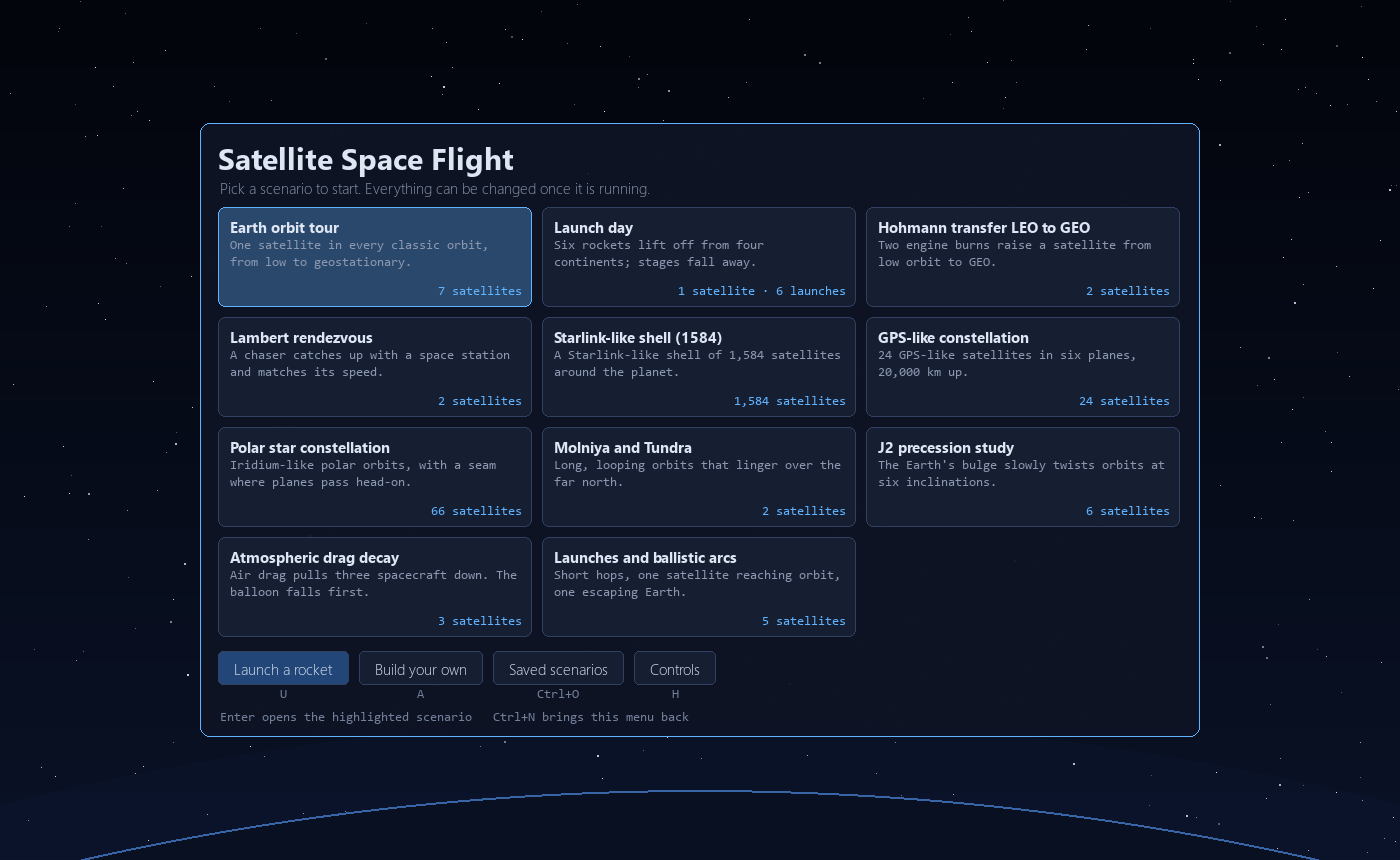
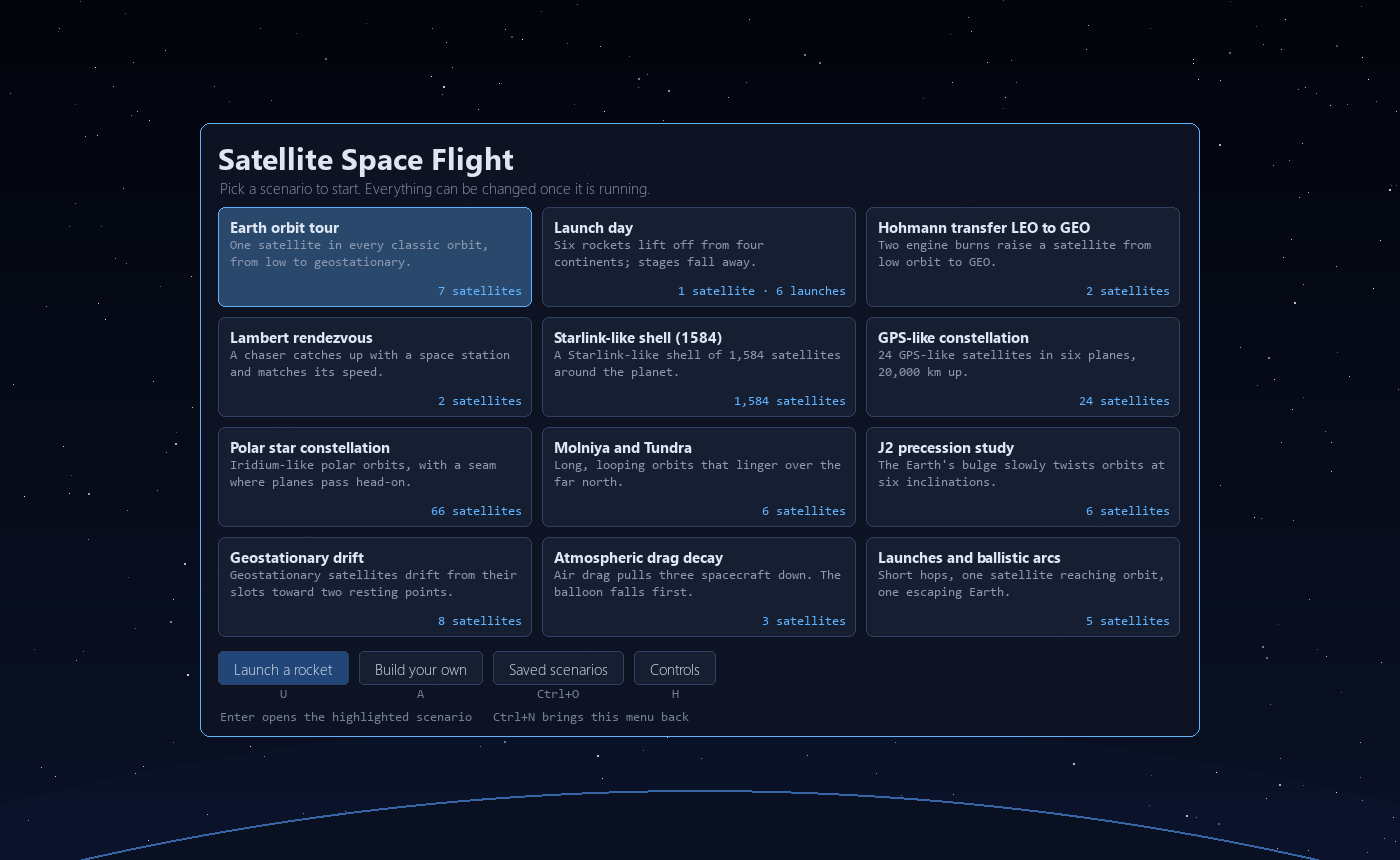
Add the C22/S22 gravity term and a geostationary drift scenario
The Earth's equator is slightly elliptical. The sectoral C22/S22 term
(EGM-96) is a new force switch, off by default, in the Physics dialog
and scenario files ("c22"). It turns with the Earth, so accelerations take
GMST and the energy readouts become the Jacobi integral E - omega h_z
(conserved to 1e-11 over a day in the tests). Tests also check the
acceleration against the potential's numerical gradient.

Its visible effect: unattended geostationary satellites accelerate in
longitude toward 75 E or 105 W, 3.06 deg in 60 days from 45 deg away.
New scenario geo_drift.json shows eight of them at a day per second
(10-minute steps). It is Earth gravity, so it is in scope; SCOPE.md and
the scope test list it.

Also: the start menu counted a satellite spec with copies as one
satellite (the Molniya card said 2 for 6).

diff --git a/satflight/forces.py b/satflight/forces.py
@@ -22,7 +22,7 @@ from dataclasses import asdict, dataclass, fields
 import numpy as np
 
 from . import atmosphere
-from .constants import F_EARTH, J2, J3, J4, MU_EARTH, R_EARTH
+from .constants import C22, F_EARTH, J2, J3, J4, MU_EARTH, OMEGA_EARTH, R_EARTH, S22
 from .frames import OMEGA_VEC
 
 # --- Individual terms --------------------------------------------------------------
@@ -64,6 +64,42 @@ def accel_j4(r, mu: float = MU_EARTH, re: float = R_EARTH, j4: float = J4):
     txy = 1.0 - 14.0 * s + 21.0 * s * s
     tz = 5.0 - 70.0 / 3.0 * s + 21.0 * s * s
     return np.stack([k * x * txy, k * y * txy, k * z * tz], axis=-1)
+
+
+def _to_ecef_xy(r, theta):
+    """ECEF x, y (and z) of ECI positions ``r`` with the Earth turned by ``theta``
+    (a scalar, or one angle per row)."""
+    c, s = np.cos(theta), np.sin(theta)
+    x, y, z = r[..., 0], r[..., 1], r[..., 2]
+    return c * x + s * y, -s * x + c * y, z, c, s
+
+
+def accel_c22(r, theta, mu: float = MU_EARTH, re: float = R_EARTH, c22: float = C22,
+              s22: float = S22):
+    """Sectoral C22/S22 term (the equator is slightly elliptical) at ECI ``r``
+    when the Earth has turned by GMST ``theta``: the gradient of
+
+        U22 = 3 mu Re^2 (C22 (x^2 - y^2) + 2 S22 x y) / r^5   (x, y Earth-fixed).
+
+    It fixes the Earth's field to the rotating Earth, so it depends on time.
+    Geostationary satellites drift toward 75 E or 105 W under it."""
+    x, y, z, c, s = _to_ecef_xy(r, theta)
+    r2 = x * x + y * y + z * z
+    k = 3.0 * mu * re * re / (r2 * r2 * np.sqrt(r2))
+    w = c22 * (x * x - y * y) + 2.0 * s22 * x * y
+    q = 5.0 * w / r2
+    gx = k * (2.0 * (c22 * x + s22 * y) - q * x)
+    gy = k * (2.0 * (s22 * x - c22 * y) - q * y)
+    gz = -k * q * z
+    return np.stack([c * gx - s * gy, s * gx + c * gy, gz], axis=-1)
+
+
+def c22_potential(r, theta, mu: float = MU_EARTH, re: float = R_EARTH):
+    """U22 of :func:`accel_c22` (km^2/s^2, the acceleration is its gradient)."""
+    x, y, z, _, _ = _to_ecef_xy(r, theta)
+    r2 = x * x + y * y + z * z
+    w = C22 * (x * x - y * y) + 2.0 * S22 * x * y
+    return 3.0 * mu * re * re * w / (r2 * r2 * np.sqrt(r2))
 
 
 def zonal_potential(r, j2=True, j3=False, j4=False, mu: float = MU_EARTH,
@@ -109,10 +145,11 @@ class ForceModel:
     j2: bool = True
     j3: bool = False
     j4: bool = False
+    c22: bool = False
     drag: bool = False
     density_scale: float = 1.0
 
-    TERMS = ("j2", "j3", "j4", "drag")
+    TERMS = ("j2", "j3", "j4", "c22", "drag")
     OUT_OF_SCOPE = {"sun": "Sun third-body gravity", "moon": "Moon third-body gravity",
                     "srp": "solar radiation pressure"}
 
@@ -136,8 +173,9 @@ class ForceModel:
         on = [t.upper() for t in self.TERMS if getattr(self, t)]
         return "two-body" if not on else "2B+" + "+".join(on)
 
-    def acceleration(self, r, v, cd_a_over_m):
-        """Total acceleration (km/s^2) of the enabled terms for ``(N, 3)`` states."""
+    def acceleration(self, r, v, cd_a_over_m, gmst: float = 0.0):
+        """Total acceleration (km/s^2) of the enabled terms for ``(N, 3)`` states;
+        ``gmst`` (rad) places the Earth-fixed C22/S22 term."""
         a = accel_point_mass(r)
         if self.j2:
             a += accel_j2(r)
@@ -145,11 +183,13 @@ class ForceModel:
             a += accel_j3(r)
         if self.j4:
             a += accel_j4(r)
+        if self.c22:
+            a += accel_c22(r, gmst)
         if self.drag:
             a += accel_drag(r, v, cd_a_over_m, self.density_scale)
         return a
 
-    def breakdown(self, r, v, cd_a_over_m):
+    def breakdown(self, r, v, cd_a_over_m, gmst: float = 0.0):
         """Magnitude (km/s^2) of every term for display, enabled or not."""
         r = np.atleast_2d(r)
         v = np.atleast_2d(v)
@@ -158,14 +198,23 @@ class ForceModel:
             "J2": accel_j2(r),
             "J3": accel_j3(r),
             "J4": accel_j4(r),
+            "C22": accel_c22(r, gmst),
             "drag": accel_drag(r, v, np.atleast_1d(cd_a_over_m), self.density_scale),
         }
-        enabled = {"gravity": True, "J2": self.j2, "J3": self.j3, "J4": self.j4, "drag": self.drag}
+        enabled = {"gravity": True, "J2": self.j2, "J3": self.j3, "J4": self.j4, "C22": self.c22,
+                   "drag": self.drag}
         return {k: (float(np.linalg.norm(val[0])), enabled[k]) for k, val in terms.items()}
 
 
-def conservative_energy(r, v, model: ForceModel):
-    """Specific energy including the enabled zonal terms; conserved exactly
-    when only point mass + zonals act (the field is axisymmetric)."""
+def conservative_energy(r, v, model: ForceModel, gmst=0.0):
+    """The quantity the enabled gravity terms conserve. With zonals only (an
+    axisymmetric field) that is the specific energy. The C22/S22 term turns
+    with the Earth, so energy is no longer conserved; the Jacobi integral
+    E - omega h_z (energy seen from the rotating Earth) is, and is returned
+    instead. ``gmst`` (rad, scalar or one per row) places the C22 term."""
     vm2 = np.sum(v * v, axis=-1)
-    return 0.5 * vm2 - zonal_potential(r, model.j2, model.j3, model.j4)
+    e = 0.5 * vm2 - zonal_potential(r, model.j2, model.j3, model.j4)
+    if model.c22:
+        e = e - c22_potential(r, gmst)
+        e = e - OMEGA_EARTH * (r[..., 0] * v[..., 1] - r[..., 1] * v[..., 0])
+    return e

diff --git a/tests/test_forces_integrators.py b/tests/test_forces_integrators.py
@@ -7,15 +7,17 @@ import numpy as np
 import pytest
 
 from satflight import integrators
-from satflight.constants import MU_EARTH
+from satflight.constants import MU_EARTH, OMEGA_EARTH
 from satflight.elements import coe2rv, kepler_propagate
 from satflight.forces import (
     ForceModel,
+    accel_c22,
     accel_drag,
     accel_j2,
     accel_j3,
     accel_j4,
     accel_point_mass,
+    c22_potential,
     conservative_energy,
     zonal_potential,
 )
@@ -134,3 +136,29 @@ def test_callback_can_stop_integration():
     prop = Propagator("dopri5", h_max=10.0)
     t, _ = prop.integrate(_two_body, 0.0, y0, 1000.0, lambda t, y: t >= 50.0)
     assert 50.0 <= t < 100.0
+
+
+@pytest.mark.parametrize("theta", [0.0, 1.1, 4.0])
+def test_c22_acceleration_is_the_potential_gradient(theta):
+    for r in (np.array([7000.0, 1200.0, -900.0]), np.array([-30000.0, 28000.0, 4000.0])):
+        num = _num_grad(lambda x: c22_potential(x, theta), r, 0.5)
+        assert np.allclose(accel_c22(r, theta), num, rtol=1e-6, atol=1e-18)
+
+
+def test_jacobi_integral_is_conserved_with_c22():
+    """The C22 field turns with the Earth: energy changes, E - omega h_z does not."""
+    model = ForceModel(j2=True, c22=True)
+    r0, v0 = coe2rv(12000.0, 0.2, 0.7, 0.3, 0.4, 0.5)
+    y0 = np.concatenate([r0, v0])[None, :]
+
+    def f(t, y):
+        a = model.acceleration(y[:, :3], y[:, 3:], np.zeros(1), OMEGA_EARTH * t)
+        return np.concatenate([y[:, 3:], a], axis=1)
+    _, y = Propagator("dopri5", rtol=1e-12, atol=1e-10, h_max=60.0).integrate(f, 0.0, y0, 86400.0)
+    j0 = conservative_energy(y0[:, :3], y0[:, 3:], model, 0.0)[0]
+    j1 = conservative_energy(y[:, :3], y[:, 3:], model, OMEGA_EARTH * 86400.0)[0]
+    assert abs((j1 - j0) / j0) < 1e-10
+    plain = ForceModel(j2=True)
+    e0 = conservative_energy(y0[:, :3], y0[:, 3:], plain)[0]
+    e1 = conservative_energy(y[:, :3], y[:, 3:], plain)[0]
+    assert abs((e1 - e0) / e0) > 1e-8                  # the energy alone is not conserved

diff --git a/tests/test_maneuvers_simulation.py b/tests/test_maneuvers_simulation.py
@@ -217,7 +217,7 @@ def test_sun_and_moon_forces_are_out_of_scope(tmp_path):
     """Only the Earth acts on satellites: a scenario asking for Sun/Moon
     gravity or SRP still loads, runs Earth-only and says what it ignored."""
     import json
-    assert set(ForceModel.TERMS) == {"j2", "j3", "j4", "drag"}
+    assert set(ForceModel.TERMS) == {"j2", "j3", "j4", "c22", "drag"}   # Earth only
     assert not {"sun", "moon", "srp"} & {f for f in vars(ForceModel())}
     d = Scenario(name="old", satellites=[]).to_dict()
     d["forces"].update(sun=True, moon=True, srp=False)
@@ -256,3 +256,18 @@ def test_geostationary_preset_holds_its_longitude(propagator, j2):
         return math.degrees(math.atan2(p[1], p[0]))
     sim.advance(30 * 86400.0)
     assert abs(lon() + 75.0) < 0.005
+
+
+@pytest.mark.parametrize("lon0,toward", [(30.0, 75.0), (-60.0, -105.0)])
+def test_c22_pulls_geostationary_satellites_toward_the_stable_longitudes(lon0, toward):
+    """Unattended GEO satellites accelerate toward 75 E or 105 W at ~0.0017 deg/day^2
+    at most: about 3 deg in 60 days from 45 deg away."""
+    sc = Scenario(name="g", satellites=[SatSpec("G", {"type": "geo", "lon": lon0})],
+                  forces=ForceModel(j2=True, c22=True))
+    sc.integrator.h_max = 600.0
+    sim = Simulation(sc)
+    sim.advance(60 * 86400.0)
+    p = eci_to_ecef(sim.y[0, :3], sim.gmst())
+    moved = math.degrees(math.atan2(p[1], p[0])) - lon0
+    assert math.copysign(1.0, moved) == math.copysign(1.0, toward - lon0)
+    assert 2.5 < abs(moved) < 3.6

diff --git a/satflight/ui/dialogs.py b/satflight/ui/dialogs.py
@@ -555,6 +555,10 @@ def physics_dialog(app):
           tip="The Earth's slight pear shape (north-south asymmetry). It slowly changes "
               "eccentricity."),
         F("j4", "J4", "bool", fm.j4, tip="The next, smaller term of the Earth's shape."),
+        F("c22", "C22/S22 (elliptical equator)", "bool", fm.c22,
+          tip="The equator is slightly oval, and the oval turns with the Earth. Small, but "
+              "it is what pulls geostationary satellites off their slots (toward 75 E or "
+              "105 W) over weeks. Cowell only."),
         F("drag", "Atmospheric drag", "bool", fm.drag,
           tip="Air resistance from the upper atmosphere. It makes low orbits decay until the "
               "satellite re-enters."),
@@ -571,8 +575,8 @@ def physics_dialog(app):
     def on_ok(v):
         if v["rtol"] <= 0 or v["atol"] <= 0 or v["h_max"] <= 0 or v["h_fixed"] <= 0:
             return "tolerances and steps must be positive"
-        sim.forces = ForceModel(j2=v["j2"], j3=v["j3"], j4=v["j4"], drag=v["drag"],
-                                density_scale=v["density_scale"])
+        sim.forces = ForceModel(j2=v["j2"], j3=v["j3"], j4=v["j4"], c22=v["c22"],
+                                drag=v["drag"], density_scale=v["density_scale"])
         sim.set_propagator(v["propagator"])
         it.method = v["method"]
         it.rtol, it.atol, it.h_max, it.h_fixed = v["rtol"], v["atol"], v["h_max"], v["h_fixed"]

diff --git a/tools/make_scenarios.py b/tools/make_scenarios.py
@@ -24,6 +24,7 @@ from satflight.scenario import (  # noqa: E402
     DEFAULT_STATIONS,
     ConstellationSpec,
     GroundStation,
+    IntegratorSettings,
     SatSpec,
     Scenario,
     preset_spec,
@@ -234,10 +235,24 @@ def launch_day():
     return sc
 
 
+def geo_drift():
+    lons = [-165, -120, -75, -30, 15, 60, 105, 150]
+    return Scenario(
+        name="Geostationary drift",
+        description="Eight geostationary satellites 45 deg apart with no station-keeping. "
+                    "The slightly elliptical equator (C22/S22) pulls each one toward 75 E or "
+                    "105 W, where it would rock back and forth. Best in the Earth-fixed frame "
+                    "(E) with the map (M); a day passes every second.",
+        epoch=EPOCH, forces=ForceModel(j2=True, c22=True), warp=86400,
+        integrator=IntegratorSettings(h_max=600.0),
+        satellites=[SatSpec(f"GEO {lon:+d}", {"type": "geo", "lon": lon}, mass=3000, area=30)
+                    for lon in lons])
+
+
 ALL = {"default": default, "hohmann_to_geo": hohmann, "rendezvous": rendezvous,
        "starlink_shell": starlink, "gps_constellation": gps, "polar_star": iridium,
        "drag_decay": drag, "j2_precession": j2, "molniya_tundra": heo,
-       "launches_and_arcs": launches, "launch_day": launch_day}
+       "launches_and_arcs": launches, "launch_day": launch_day, "geo_drift": geo_drift}
 
 
 if __name__ == "__main__":

diff --git a/tests/test_ui_headless.py b/tests/test_ui_headless.py
@@ -16,10 +16,13 @@ import pytest
 from satflight.analysis import osculating_to_mean_a
 from satflight.constants import R_EARTH
 from satflight.elements import rv2coe
+from satflight.scenario import Scenario
+from satflight.simulation import Simulation
 from satflight.ui import glossary, theme, tips
 from satflight.ui.app import REST_AFTER, RESTING_FPS, App
 from satflight.ui.panels import HELP, draw_help, help_layout
 from satflight.ui.theme import px
+from satflight.ui.welcome import scenario_card
 from satflight.ui.widgets import TextField
 
 
@@ -960,3 +963,12 @@ def test_a_still_picture_is_redrawn_less_often(app):
     assert app.frame_rate(time.monotonic() + REST_AFTER + 0.1) == RESTING_FPS
     app.handle(pygame.event.Event(pygame.MOUSEBUTTONDOWN, button=1, pos=app.view_rect().center))
     assert app.frame_rate(time.monotonic() + 10) == 60      # dragging the view
+
+
+def test_start_menu_counts_every_satellite():
+    """Copies along one orbit count (the Molniya card said 2 for 6 satellites)."""
+    root = Path(__file__).resolve().parents[1] / "scenarios"
+    for stem in ("molniya_tundra", "default", "starlink_shell"):
+        tag = scenario_card(root / f"{stem}.json")[2]
+        n = Simulation(Scenario.load(root / f"{stem}.json")).n
+        assert tag.startswith(f"{n:,} satellite"), (stem, tag, n)

diff --git a/satflight/ui/welcome.py b/satflight/ui/welcome.py
@@ -28,6 +28,7 @@ CARDS = [
     ("polar_star", "Iridium-like polar orbits, with a seam where planes pass head-on."),
     ("molniya_tundra", "Long, looping orbits that linger over the far north."),
     ("j2_precession", "The Earth's bulge slowly twists orbits at six inclinations."),
+    ("geo_drift", "Geostationary satellites drift from their slots toward two resting points."),
     ("drag_decay", "Air drag pulls three spacecraft down. The balloon falls first."),
     ("launches_and_arcs", "Short hops, one satellite reaching orbit, one escaping Earth."),
 ]
@@ -42,8 +43,8 @@ def scenario_card(path: Path) -> tuple[str, str, str] | None:
     """(title, blurb, size tag) for a scenario file, or None if it cannot be read."""
     try:
         d = json.loads(path.read_text(encoding="utf-8"))
-        sats = len(d.get("satellites", [])) + sum(int(c.get("total", 0))
-                                                  for c in d.get("constellations", []))
+        sats = (sum(int(s.get("count", 1)) for s in d.get("satellites", []))   # copies count
+                + sum(int(c.get("total", 0)) for c in d.get("constellations", [])))
         launches = len(d.get("launches", []))
     except (OSError, ValueError, AttributeError, TypeError):
         return None

diff --git a/satflight/simulation.py b/satflight/simulation.py
@@ -620,11 +620,11 @@ class Simulation:
         cd_am = self._props(idx)
         rows = {int(i): k for k, i in enumerate(idx)}
         burn_rows = [(rows[j], b) for b in burns if (j := self.index_of(b.man.sat)) in rows]
-        forces = self.forces
+        forces, clock = self.forces, self.clock
 
         def f(t, y):
             r, v = y[:, :3], y[:, 3:]
-            a = forces.acceleration(r, v, cd_am)
+            a = forces.acceleration(r, v, cd_am, float(clock.gmst(t)) if forces.c22 else 0.0)
             for k, b in burn_rows:
                 m = b.m0 - b.mdot * (t - b.t0)
                 d = finite_direction(b.man, r[k:k + 1], v[k:k + 1])[0]
@@ -944,7 +944,7 @@ class Simulation:
     def energy(self, i: int) -> float:
         """Specific energy of satellite ``i`` including the enabled zonal terms."""
         r, v = self.y[i:i + 1, :3], self.y[i:i + 1, 3:]
-        return float(conservative_energy(r, v, self.forces)[0])
+        return float(conservative_energy(r, v, self.forces, self.gmst())[0])
 
     def station_visibility(self, i: int):
         """[(station, az deg, el deg, range km)] for stations that see satellite i."""

diff --git a/satflight/ui/glossary.py b/satflight/ui/glossary.py
@@ -156,6 +156,9 @@ ROWS = {
             "perturbation for most orbits.",
     "a_J3": "Acceleration from the Earth's slight pear shape (J3).",
     "a_J4": "Acceleration from the J4 zonal term of the Earth's gravity field.",
+    "a_C22": "Acceleration from the Earth's slightly elliptical equator (the C22/S22 "
+             "term). It turns with the Earth and makes geostationary satellites drift "
+             "toward 75 E or 105 W.",
     "a_drag": "Deceleration from air drag. '(off)' means the force is shown but not applied "
               "(turn it on in Physics).",
     # --- launch

diff --git a/satflight/ui/panels.py b/satflight/ui/panels.py
@@ -443,7 +443,7 @@ class InfoPanel:
         env = [("Illumination", f"{shadow_state(s.shadow)} ({s.shadow * 100:.0f}%)"),
                ("Beta angle", num(D(beta_angle(r, v, sun)), "deg", 2))]
         cd_am = s.cd * s.area / s.mass
-        br = sim.forces.breakdown(r, v, cd_am)
+        br = sim.forces.breakdown(r, v, cd_am, sim.gmst())
         for name, (mag, on) in br.items():
             env.append((f"  a_{name}" + ("" if on else " (off)"), f"{mag * 1e3:.3e} m/s^2"))
         e_now = sim.energy(i)

diff --git a/satflight/constants.py b/satflight/constants.py
@@ -20,6 +20,9 @@ OMEGA_EARTH = 7.292115146706979e-5     # rad/s, sidereal rotation rate
 J2 = 1.08262668355e-3
 J3 = -2.53265648533e-6
 J4 = -1.61962159137e-6
+# sectoral degree-2 order-2 coefficients (EGM-96, unnormalized): the equator's ellipticity
+C22 = 1.57446037456e-6
+S22 = -9.03803806639e-7
 
 # --- Sun (position only: lighting, eclipses, beta angle) -------------------
 # The Sun and Moon exert no force in this simulator; see docs/SCOPE.md.

diff --git a/satflight/ui/plots.py b/satflight/ui/plots.py
@@ -23,7 +23,7 @@ def _altitude(sim, t, s):
 
 
 def _energy_drift(sim, t, s):
-    e = conservative_energy(s[:, :3], s[:, 3:], sim.forces)
+    e = conservative_energy(s[:, :3], s[:, 3:], sim.forces, sim.clock.gmst(t))
     return (e - e[0]) / abs(e[0])
 
 
